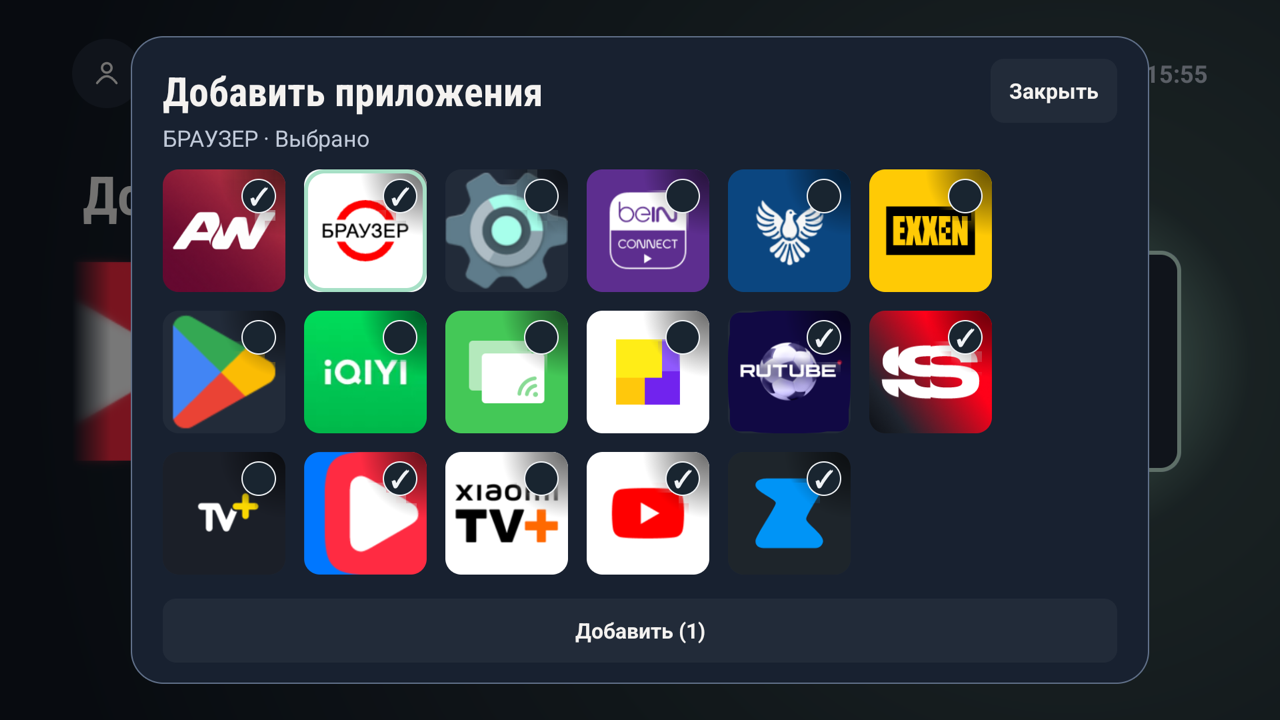
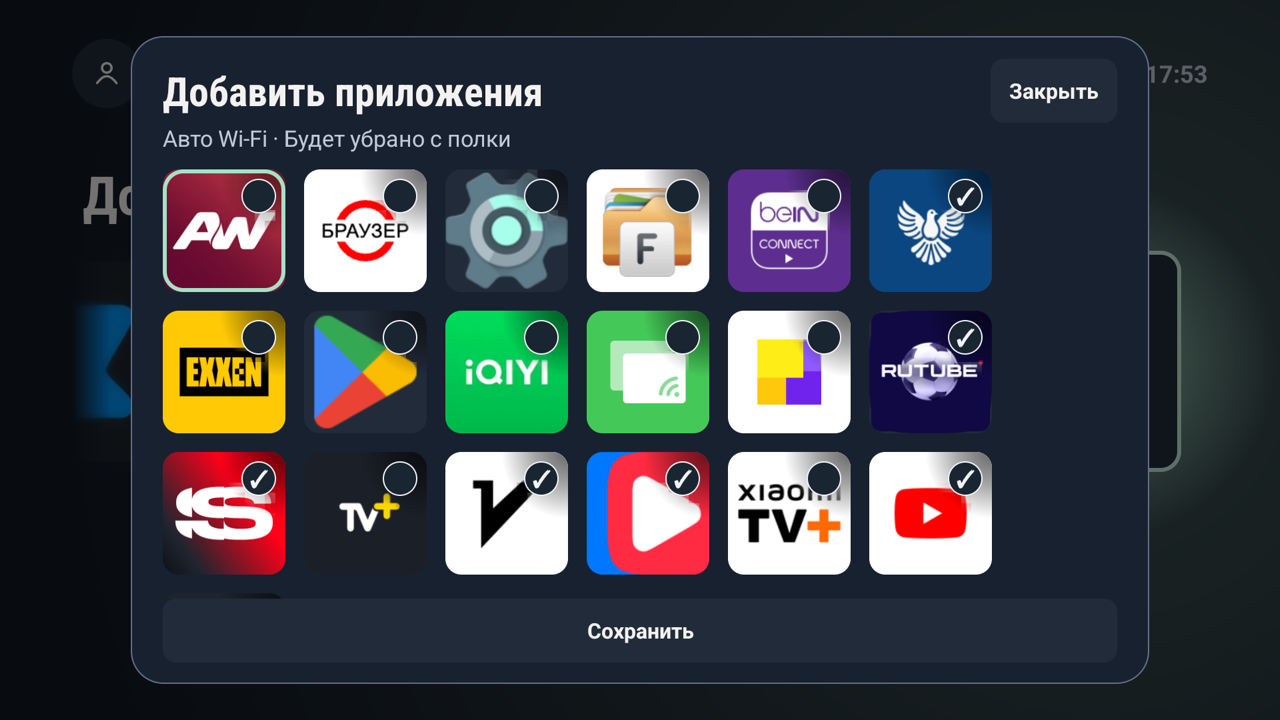
Allow unpinning apps in the shelf picker

diff --git a/src/main/java/ru/local/tvshelf/MainActivity.java b/src/main/java/ru/local/tvshelf/MainActivity.java
@@ -380,7 +380,7 @@ public final class MainActivity extends Activity {
         label.setImportantForAccessibility(View.IMPORTANT_FOR_ACCESSIBILITY_NO);
         content.addView(label, new LinearLayout.LayoutParams(MATCH, WRAP));
         tile.addView(content, new FrameLayout.LayoutParams(MATCH, MATCH));
-        tile.setOnClickListener(view -> addFavorites(true));
+        tile.setOnClickListener(view -> editFavoriteSelection(true));
         appendShelfTile(tile, size);
         return tile;
     }
@@ -658,7 +658,7 @@ public final class MainActivity extends Activity {
         panel.root.addView(add, new LinearLayout.LayoutParams(MATCH, dp(48)));
         add.setOnClickListener(view -> {
             panel.dialog.dismiss();
-            addFavorites(false);
+            editFavoriteSelection(false);
         });
 
         List<TvApps.Entry> entries = new ArrayList<>();
@@ -684,59 +684,65 @@ public final class MainActivity extends Activity {
         });
     }
 
-    private void addFavorites(boolean focusAddedApp) {
+    private void editFavoriteSelection(boolean focusAddedApp) {
         if (apps.entries.isEmpty()) {
             toast("Нет доступных ТВ-приложений.");
             return;
         }
         Panel panel = createPanel("Добавить приложения", 764);
-        List<String> selected = new ArrayList<>();
-        TextView save = actionText("Добавить");
+        List<String> original = store.favorites();
+        Map<String, Boolean> changes = new LinkedHashMap<>();
+        TextView save = actionText("Сохранить");
         panel.root.addView(save, new LinearLayout.LayoutParams(MATCH, dp(48)));
-        updateAddButton(save, 0);
+        setFavoriteSaveEnabled(save, false);
         save.setOnClickListener(view -> {
             List<String> current = store.favorites();
             String firstAdded = null;
-            for (String id : selected) {
+            for (Map.Entry<String, Boolean> change : changes.entrySet()) {
+                String id = change.getKey();
+                if (!change.getValue()) {
+                    current.removeIf(id::equals);
+                    continue;
+                }
                 if (current.contains(id) || !apps.byId.containsKey(id)) continue;
                 current.add(id);
                 if (firstAdded == null) firstAdded = id;
             }
             panel.dialog.dismiss();
-            if (firstAdded == null) return;
             store.saveFavorites(current);
-            if (focusAddedApp) focusedPackage = firstAdded;
+            if (focusAddedApp && firstAdded != null) focusedPackage = firstAdded;
             buildTiles();
         });
         showAppGrid(panel, apps.entries, 48, true, (entry, item) -> {
-            boolean added = tiles.containsKey(entry.id);
-            String caption = added ? entry.name + " · Уже на полке" : entry.name;
-            item.setContentDescription(caption);
+            boolean pinned = original.contains(entry.id);
+            String unchanged = pinned ? entry.name + " · Уже на полке" : entry.name;
+            item.setSelected(pinned);
+            item.setContentDescription(unchanged);
             item.setOnFocusChangeListener((view, focused) -> {
-                if (focused) panel.caption.setText(item.isSelected() ? entry.name + " · Выбрано" : caption);
+                if (focused) panel.caption.setText(item.getContentDescription());
             });
 
-            TextView check = addAppCheck(item, added ? "✓" : "");
+            TextView check = addAppCheck(item, pinned ? "✓" : "");
             item.setAccessibilityDelegate(new View.AccessibilityDelegate() {
                 @Override
                 public void onInitializeAccessibilityNodeInfo(View host, AccessibilityNodeInfo info) {
                     super.onInitializeAccessibilityNodeInfo(host, info);
                     info.setClassName("android.widget.CheckBox");
                     info.setCheckable(true);
-                    info.setChecked(added || host.isSelected());
+                    info.setChecked(host.isSelected());
                 }
             });
-            if (added) {
-                item.setClickable(false);
-                return;
-            }
             item.setOnClickListener(view -> {
-                boolean checked = !selected.remove(entry.id);
-                if (checked) selected.add(entry.id);
+                boolean checked = !item.isSelected();
+                if (checked == pinned) changes.remove(entry.id);
+                else changes.put(entry.id, checked);
                 item.setSelected(checked);
                 check.setText(checked ? "✓" : "");
-                if (item.hasFocus()) panel.caption.setText(checked ? entry.name + " · Выбрано" : caption);
-                updateAddButton(save, selected.size());
+                String caption = checked == pinned ? unchanged : entry.name
+                        + (checked ? " · Будет добавлено" : " · Будет убрано с полки");
+                item.setContentDescription(caption);
+                if (item.hasFocus()) panel.caption.setText(caption);
+                setFavoriteSaveEnabled(save, !changes.isEmpty());
             });
         });
     }
@@ -760,10 +766,9 @@ public final class MainActivity extends Activity {
         item.addView(badge, params);
     }
 
-    private void updateAddButton(TextView button, int count) {
-        button.setText(count == 0 ? "Добавить" : "Добавить (" + count + ")");
-        button.setEnabled(count > 0);
-        button.setAlpha(count > 0 ? 1f : 0.56f);
+    private void setFavoriteSaveEnabled(TextView button, boolean enabled) {
+        button.setEnabled(enabled);
+        button.setAlpha(enabled ? 1f : 0.56f);
     }
 
     private void editFavorite(String id) {

diff --git a/README.md b/README.md
@@ -35,16 +35,16 @@
   <img src="docs/media/home.png" width="900" alt="TV Shelf home screen with favorite apps and the quick actions dock">
 </p>
 
-| All apps | Add apps | Favorites |
+| All apps | Edit shelf apps | Favorites |
 | --- | --- | --- |
-| ![Installed apps displayed as icons](docs/media/apps.png) | ![App icons with circular checkmarks indicating which apps are selected or already pinned](docs/media/add-apps.png) | ![Favorite apps with a star in the top corner of each icon](docs/media/favorites.png) |
+| ![Installed apps displayed as icons](docs/media/apps.png) | ![App icons with circular checkmarks for keeping apps on the shelf](docs/media/add-apps.png) | ![Favorite apps with a star in the top corner of each icon](docs/media/favorites.png) |
 
 <details>
 <summary>Watch the remote demos</summary>
 
-| Browse the shelf | Add apps | Reorder a tile |
+| Browse the shelf | Edit shelf apps | Reorder a tile |
 | --- | --- | --- |
-| ![Move between favorites and open the apps grid](docs/media/navigation.gif) | ![Open the plus tile and select an app in the icon grid](docs/media/add.gif) | ![Use the remote to move a favorite tile to a new position](docs/media/reorder.gif) |
+| ![Move between favorites and open the apps grid](docs/media/navigation.gif) | ![Open the plus tile and uncheck an app to remove it from the shelf](docs/media/add.gif) | ![Use the remote to move a favorite tile to a new position](docs/media/reorder.gif) |
 
 </details>
 
@@ -52,7 +52,7 @@
 
 1. Download **tv-shelf.apk** from [Releases](https://github.com/alpershin/tv-shelf/releases/latest).
 2. Sideload it. If the TV is already connected through ADB, run `adb install -r tv-shelf.apk`.
-3. Open **Полка** from the TV’s app list. Go to **+ Добавить приложение** at the right end of the shelf, select icons, and press **Добавить**. The caption identifies apps that are already pinned.
+3. Open **Полка** from the TV’s app list. Go to **+ Добавить приложение** at the right end of the shelf. Check apps to pin them or uncheck them to remove them from the shelf, then press **Сохранить**. Press Back to cancel your changes.
 4. To reorder a tile, hold the center button, then move it left or right. Press Down and select **Готово** to save, or press Back to cancel.
 5. Open **Настроить полку** to manage favorites and quick actions. Select a starred icon in **Избранное** to move or remove that app.
 
